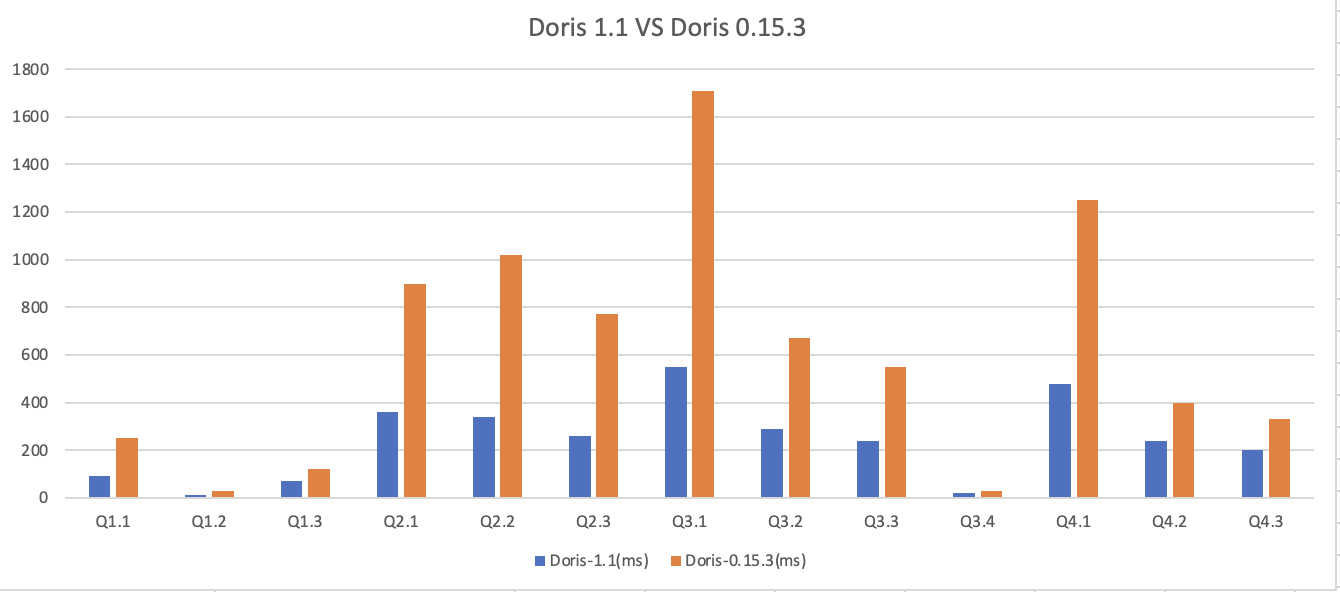
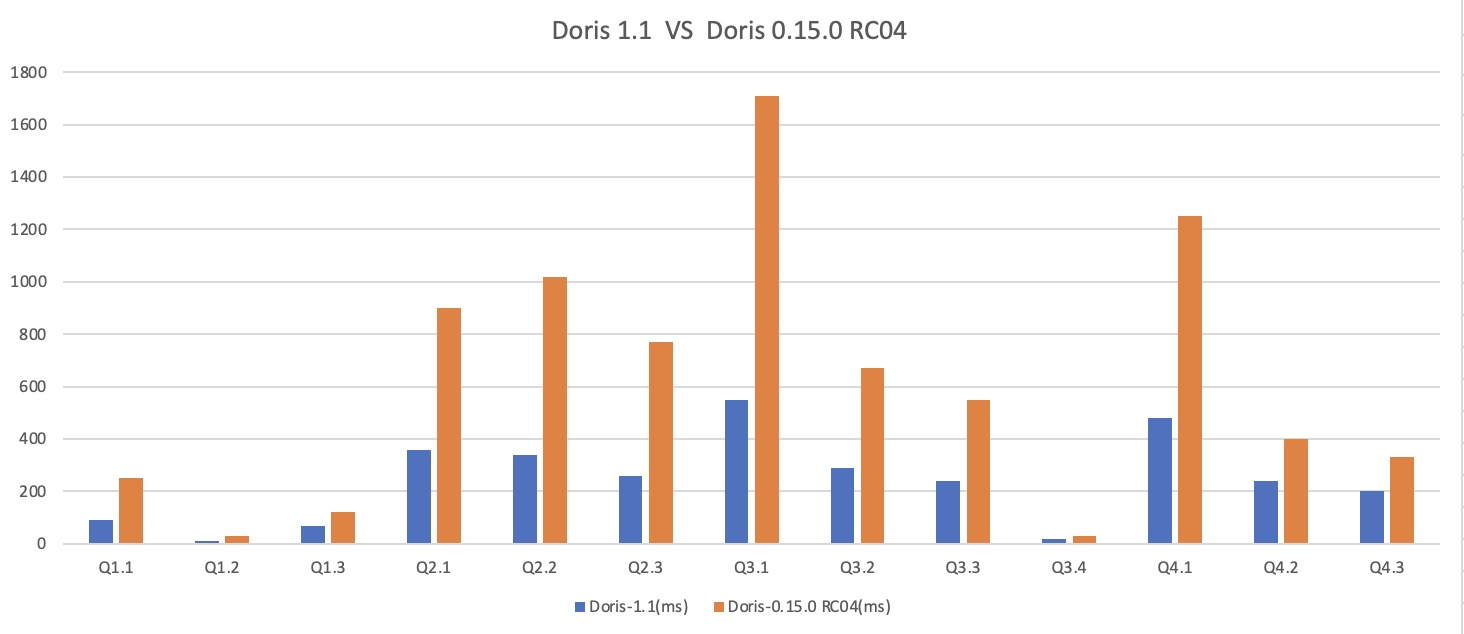
Version correction
Version correction

diff --git a/docs/en/benchmark/ssb.md b/docs/en/benchmark/ssb.md
@@ -34,7 +34,7 @@ This document mainly introduces the performance of Doris on the SSB test set.
 >
 > Note 2: The operations involved in this document are all performed in the Ubuntu Server 20.04 environment, and CentOS 7 can also be tested.
 
-On 13 queries on the SSB standard test dataset, we tested the upcoming Doris 1.1 version and Doris 0.15.3 version peer-to-peer, and the overall performance improved by 2-3 times.
+On 13 queries on the SSB standard test dataset, we tested the upcoming Doris 1.1 version and Doris 0.15.0 RC04 version peer-to-peer, and the overall performance improved by 2-3 times.
 
 ![ssb_v11_v015_compare](/images/ssb_v11_v015_compare.png)
 
@@ -68,23 +68,23 @@ On 13 queries on the SSB standard test dataset, we tested the upcoming Doris 1.1
 
 ## 4. Test Results
 
-Here we use the upcoming Doris-1.1 version and Doris-0.15.3 version for comparative testing. The test results are as follows:
+Here we use the upcoming Doris-1.1 version and Doris-0.15.0 RC04 version for comparative testing. The test results are as follows:
 
-| Query | Doris-1.1(ms) | Doris-0.15.3(ms) |
-| ----- | ------------- | ---------------- |
-| Q1.1  | 90            | 250              |
-| Q1.2  | 10            | 30               |
-| Q1.3  | 70            | 120              |
-| Q2.1  | 360           | 900              |
-| Q2.2  | 340           | 1020             |
-| Q2.3  | 260           | 770              |
-| Q3.1  | 550           | 1710             |
-| Q3.2  | 290           | 670              |
-| Q3.3  | 240           | 550              |
-| Q3.4  | 20            | 30               |
-| Q4.1  | 480           | 1250             |
-| Q4.2  | 240           | 400              |
-| Q4.3  | 200           | 330              |
+| Query | Doris-1.1(ms) | Doris-0.15.0 RC04(ms) |
+| ----- | ------------- | --------------------- |
+| Q1.1  | 90            | 250                   |
+| Q1.2  | 10            | 30                    |
+| Q1.3  | 70            | 120                   |
+| Q2.1  | 360           | 900                   |
+| Q2.2  | 340           | 1020                  |
+| Q2.3  | 260           | 770                   |
+| Q3.1  | 550           | 1710                  |
+| Q3.2  | 290           | 670                   |
+| Q3.3  | 240           | 550                   |
+| Q3.4  | 20            | 30                    |
+| Q4.1  | 480           | 1250                  |
+| Q4.2  | 240           | 400                   |
+| Q4.3  | 200           | 330                   |
 
 **Interpretation of results**
 

diff --git a/docs/zh-CN/benchmark/ssb.md b/docs/zh-CN/benchmark/ssb.md
@@ -34,7 +34,7 @@ under the License.
 >
 > 注2：本文档涉及的操作都在 Ubuntu Server 20.04 环境进行，CentOS 7 也可测试。
 
-在 SSB 标准测试数据集上的 13 个查询上，我们对即将发布的 Doris 1.1 版本和 Doris 0.15.3 版本进行了对别测试，整体性能提升了 2-3 倍。
+在 SSB 标准测试数据集上的 13 个查询上，我们对即将发布的 Doris 1.1 版本和 Doris 0.15.0 RC04 版本进行了对别测试，整体性能提升了 2-3 倍。
 
 ![ssb_v11_v015_compare](/images/ssb_v11_v015_compare.png)
 
@@ -68,23 +68,23 @@ under the License.
 
 ## 4. 测试结果
 
-这里我们使用即将发布的 Doris-1.1版本和 Doris-0.15.3 版本进行对比测试，测试结果如下：
+这里我们使用即将发布的 Doris-1.1版本和 Doris-0.15.0 RC04 版本进行对比测试，测试结果如下：
 
-| Query | Doris-1.1(ms) | Doris-0.15.3(ms) |
-| ----- | ------------- | ---------------- |
-| Q1.1  | 90            | 250              |
-| Q1.2  | 10            | 30               |
-| Q1.3  | 70            | 120              |
-| Q2.1  | 360           | 900              |
-| Q2.2  | 340           | 1020             |
-| Q2.3  | 260           | 770              |
-| Q3.1  | 550           | 1710             |
-| Q3.2  | 290           | 670              |
-| Q3.3  | 240           | 550              |
-| Q3.4  | 20            | 30               |
-| Q4.1  | 480           | 1250             |
-| Q4.2  | 240           | 400              |
-| Q4.3  | 200           | 330              |
+| Query | Doris-1.1(ms) | Doris-0.15.0 RC04(ms) |
+| ----- | ------------- | --------------------- |
+| Q1.1  | 90            | 250                   |
+| Q1.2  | 10            | 30                    |
+| Q1.3  | 70            | 120                   |
+| Q2.1  | 360           | 900                   |
+| Q2.2  | 340           | 1020                  |
+| Q2.3  | 260           | 770                   |
+| Q3.1  | 550           | 1710                  |
+| Q3.2  | 290           | 670                   |
+| Q3.3  | 240           | 550                   |
+| Q3.4  | 20            | 30                    |
+| Q4.1  | 480           | 1250                  |
+| Q4.2  | 240           | 400                   |
+| Q4.3  | 200           | 330                   |
 
 **结果说明**
 
